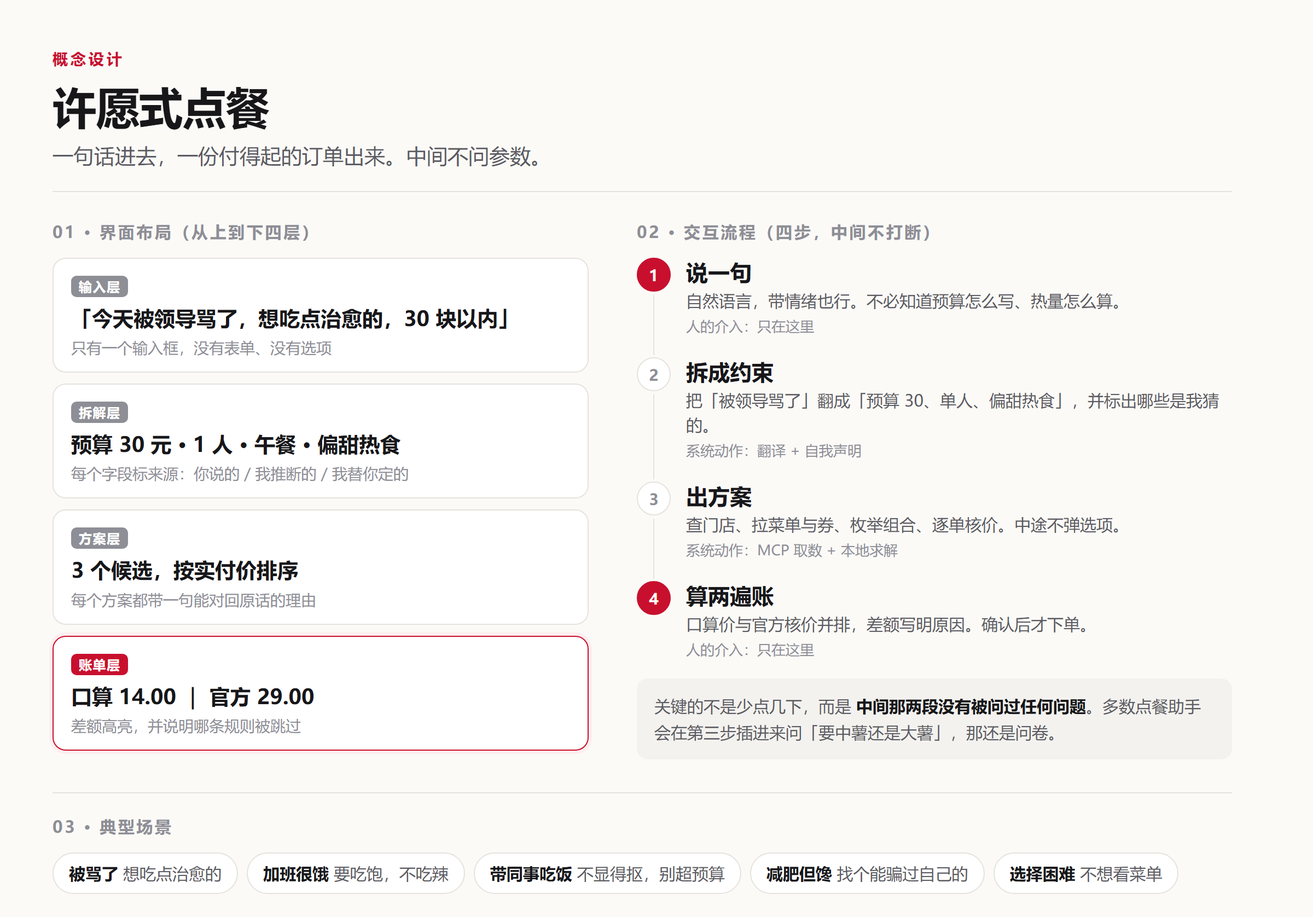
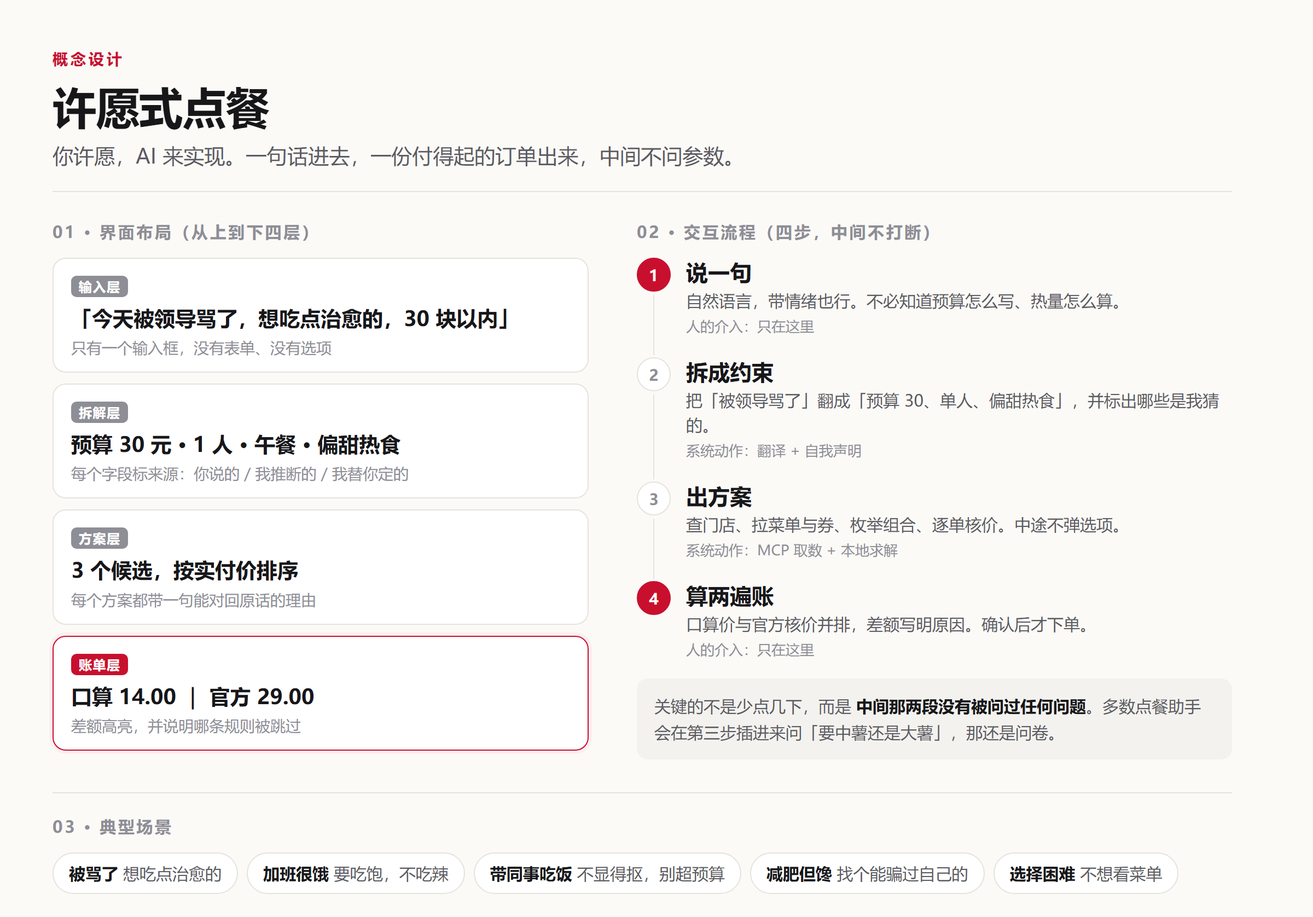
docs: 核心理念改为「你许愿，AI 来实现」
原表述「AI 可以替你许愿，但不能替你算钱」偏技术对抗，与「许愿式」的直觉有距离。
改为正面的「你许愿，AI 来实现」，把算账的透明性作为实现的一部分而不是限制。

统一 5 处：README 核心命题与开头、概念设计三条理念、演示页标题与 thesis、
pricing.py 模块注释、workbuddy.md 命题；设计图副标题同步重渲染。

- README 标题下先给主命题，再给例子，避免同一句话重复三次
- 表格「核心命题」改为「差异化：每一单的账算两遍，差额公开」
- 演示页 h1 升为「你许愿，AI 来实现」，thesis 只讲账单透明，层级不再重复
- 技术约束措辞改为「理解交给模型，算账交给代码」，与主命题形成呼应

Changed region(s): [[0.0312, 0.1551, 0.5625, 0.1862]]

diff --git a/docs/index.html b/docs/index.html
@@ -26,7 +26,7 @@
   .wrap{max-width:760px;margin:0 auto;padding:40px 22px 72px}
   header{border-bottom:1px solid var(--line);padding-bottom:22px;margin-bottom:26px}
   .kicker{font-size:12px;letter-spacing:.14em;color:var(--red);font-weight:600;text-transform:uppercase}
-  h1{font-size:30px;line-height:1.28;margin:10px 0 8px;letter-spacing:-.01em}
+  h1{font-size:34px;line-height:1.24;margin:10px 0 8px;letter-spacing:-.01em}
   .sub{color:var(--ink2);font-size:15px;margin:0}
   .thesis{
     margin:22px 0 26px;padding:16px 18px;border-left:3px solid var(--red);
@@ -130,13 +130,12 @@
 <div class="wrap">
   <header>
     <div class="kicker">许愿式点餐</div>
-    <h1>你说一句愿望，它交一份付得起的订单</h1>
-    <p class="sub">不用选套餐、不用填预算表、不用在两张券之间做算术。</p>
+    <h1>你许愿，AI 来实现</h1>
+    <p class="sub">说一句就够，不用选套餐、不用填预算表、不用在两张券之间做算术。</p>
   </header>
 
   <div class="thesis">
-    AI 可以替你许愿，但<b>不能替你算钱</b>。<br>
-    所以每一单的账都算两遍：一遍是模型式的口算，一遍是官方核价。
+    钱怎么算的也不藏：每一单算两遍，一遍是模型式的口算，一遍是官方核价。差额直接摆出来。
   </div>
 
   <div class="switcher" id="switcher"></div>
@@ -180,7 +179,7 @@
 </div>
 
 <script>
-const DATA = {"cases": [{"wish": {"raw": "今天被领导骂了一顿，想吃点能治愈的，别超过30块", "budget": 30.0, "people": 1, "meal_slot": "lunch", "moods": ["治愈"], "taste": ["sweet", "warm", "comfort"], "avoid": [], "source": {"budget": "explicit", "people": "default", "meal_slot": "inferred"}, "notes": []}, "candidates": [{"name": "麦香鸡 + 派", "items": ["麦香鸡", "派"], "codes": ["1450", "9900008752"], "unit_count": 1, "score": 7.03, "reasons": ["命中偏好：sweet"], "price": {"naive": {"label": "AI 式口算", "subtotal": 29.0, "delivery_fee": 0.0, "discount": 15.0, "payable": 14.0, "applied": ["满 70 减 15"], "rejected": [], "notes": ["选了面额最大的「满 70 减 15」，但这单只有 29.00 元，差 41.00 元没到门槛", "另外 4 张券没有参与比较（互斥规则被跳过）"]}, "official": {"label": "官方口径", "subtotal": 29.0, "delivery_fee": 0.0, "discount": 0.0, "payable": 29.0, "applied": [], "rejected": ["满 30 减 6：未达门槛 30 元（当前 29.00 元）", "满 50 减 12：未达门槛 50 元（当前 29.00 元）", "满 70 减 15：未达门槛 70 元（当前 29.00 元）", "小食第二份半价：需同类别两件（小食），当前只有 1 件", "早餐满 15 减 5：仅早餐时段可用，当前是午餐", "甜品第二份 1 元：需同类别两件（甜品），当前只有 0 件", "满 40 减 8（外送专享）：仅外送可用，当前是到店"], "notes": []}, "unit_price": {"naive": 14.0, "official": 29.0}, "units": 1, "gap": 15.0, "gap_pct": 51.7, "verdict": "口算低估了实付金额"}, "payable": 29.0}, {"name": "麦香鸡 + 雪碧", "items": ["麦香鸡", "雪碧"], "codes": ["1450", "3060"], "unit_count": 1, "score": 4.77, "reasons": [], "price": {"naive": {"label": "AI 式口算", "subtotal": 31.0, "delivery_fee": 0.0, "discount": 15.0, "payable": 16.0, "applied": ["满 70 减 15"], "rejected": [], "notes": ["选了面额最大的「满 70 减 15」，但这单只有 31.00 元，差 39.00 元没到门槛", "另外 4 张券没有参与比较（互斥规则被跳过）"]}, "official": {"label": "官方口径", "subtotal": 31.0, "delivery_fee": 0.0, "discount": 6.0, "payable": 25.0, "applied": ["满 30 减 6"], "rejected": ["满 50 减 12：未达门槛 50 元（当前 31.00 元）", "满 70 减 15：未达门槛 70 元（当前 31.00 元）", "小食第二份半价：需同类别两件（小食），当前只有 0 件", "早餐满 15 减 5：仅早餐时段可用，当前是午餐", "甜品第二份 1 元：需同类别两件（甜品），当前只有 0 件", "满 40 减 8（外送专享）：仅外送可用，当前是到店"], "notes": ["按互斥规则只用一张：满 30 减 6（整单金额需达到 30 元）"]}, "unit_price": {"naive": 16.0, "official": 25.0}, "units": 1, "gap": 9.0, "gap_pct": 36.0, "verdict": "口算低估了实付金额"}, "payable": 25.0}, {"name": "麦香鸡 + 阳光柠檬红茶", "items": ["麦香鸡", "阳光柠檬红茶"], "codes": ["1450", "515281"], "unit_count": 1, "score": 4.77, "reasons": [], "price": {"naive": {"label": "AI 式口算", "subtotal": 31.0, "delivery_fee": 0.0, "discount": 15.0, "payable": 16.0, "applied": ["满 70 减 15"], "rejected": [], "notes": ["选了面额最大的「满 70 减 15」，但这单只有 31.00 元，差 39.00 元没到门槛", "另外 4 张券没有参与比较（互斥规则被跳过）"]}, "official": {"label": "官方口径", "subtotal": 31.0, "delivery_fee": 0.0, "discount": 6.0, "payable": 25.0, "applied": ["满 30 减 6"], "rejected": ["满 50 减 12：未达门槛 50 元（当前 31.00 元）", "满 70 减 15：未达门槛 70 元（当前 31.00 元）", "小食第二份半价：需同类别两件（小食），当前只有 0 件", "早餐满 15 减 5：仅早餐时段可用，当前是午餐", "甜品第二份 1 元：需同类别两件（甜品），当前只有 0 件", "满 40 减 8（外送专享）：仅外送可用，当前是到店"], "notes": ["按互斥规则只用一张：满 30 减 6（整单金额需达到 30 元）"]}, "unit_price": {"naive": 16.0, "official": 25.0}, "units": 1, "gap": 9.0, "gap_pct": 36.0, "verdict": "口算低估了实付金额"}, "payable": 25.0}]}, {"wish": {"raw": "明天要带三个同事吃饭，我不想显得抠，也不想超预算", "budget": 220.0, "people": 4, "meal_slot": "lunch", "moods": ["抠", "同事"], "taste": ["share", "variety", "large"], "avoid": [], "source": {"people": "explicit", "meal_slot": "inferred", "budget": "default"}, "notes": ["你说带 三 个，按「你 + 他们」共 4 人算", "「不想显得抠」按「要体面、份量要够」理解", "你没说什么时候吃，按当前时间推的", "你没给金额，按每人 55 元 × 4 人 = 220 元先定，可以改"]}, "candidates": [{"name": "巨无霸 + 派 + 【美汁源】“多汁柠柠” × 4 人", "items": ["巨无霸", "派", "【美汁源】“多汁柠柠”"], "codes": ["1100", "9900008752", "521817"], "unit_count": 4, "score": 11.21, "reasons": ["品类齐（小食、汉堡、饮料），桌上不单调"], "price": {"naive": {"label": "AI 式口算", "subtotal": 208.0, "delivery_fee": 0.0, "discount": 15.0, "payable": 193.0, "applied": ["满 70 减 15"], "rejected": [], "notes": ["另外 4 张券没有参与比较（互斥规则被跳过）"]}, "official": {"label": "官方口径", "subtotal": 208.0, "delivery_fee": 0.0, "discount": 15.0, "payable": 193.0, "applied": ["满 70 减 15"], "rejected": ["早餐满 15 减 5：仅早餐时段可用，当前是午餐", "甜品第二份 1 元：需同类别两件（甜品），当前只有 0 件", "满 40 减 8（外送专享）：仅外送可用，当前是到店"], "notes": ["按互斥规则只用一张：满 70 减 15（多人场景常见档位）"]}, "unit_price": {"naive": 48.25, "official": 48.25}, "units": 4, "gap": 0.0, "gap_pct": 0.0, "verdict": "两种算法一致"}, "payable": 193.0}, {"name": "龙焰鸡腿堡 + 派 + 【美汁源】“黄金橙橙” × 4 人", "items": ["龙焰鸡腿堡", "派", "【美汁源】“黄金橙橙”"], "codes": ["521952", "9900008752", "2430"], "unit_count": 4, "score": 11.21, "reasons": ["品类齐（小食、汉堡、饮料），桌上不单调"], "price": {"naive": {"label": "AI 式口算", "subtotal": 208.0, "delivery_fee": 0.0, "discount": 15.0, "payable": 193.0, "applied": ["满 70 减 15"], "rejected": [], "notes": ["另外 4 张券没有参与比较（互斥规则被跳过）"]}, "official": {"label": "官方口径", "subtotal": 208.0, "delivery_fee": 0.0, "discount": 15.0, "payable": 193.0, "applied": ["满 70 减 15"], "rejected": ["早餐满 15 减 5：仅早餐时段可用，当前是午餐", "甜品第二份 1 元：需同类别两件（甜品），当前只有 0 件", "满 40 减 8（外送专享）：仅外送可用，当前是到店"], "notes": ["按互斥规则只用一张：满 70 减 15（多人场景常见档位）"]}, "unit_price": {"naive": 48.25, "official": 48.25}, "units": 4, "gap": 0.0, "gap_pct": 0.0, "verdict": "两种算法一致"}, "payable": 193.0}, {"name": "麦辣鸡腿汉堡 + 薯条 + 雪碧 × 4 人", "items": ["麦辣鸡腿汉堡", "薯条", "雪碧"], "codes": ["1440", "4810", "3060"], "unit_count": 4, "score": 11.21, "reasons": ["品类齐（小食、汉堡、饮料），桌上不单调"], "price": {"naive": {"label": "AI 式口算", "subtotal": 208.0, "delivery_fee": 0.0, "discount": 15.0, "payable": 193.0, "applied": ["满 70 减 15"], "rejected": [], "notes": ["另外 4 张券没有参与比较（互斥规则被跳过）"]}, "official": {"label": "官方口径", "subtotal": 208.0, "delivery_fee": 0.0, "discount": 15.0, "payable": 193.0, "applied": ["满 70 减 15"], "rejected": ["早餐满 15 减 5：仅早餐时段可用，当前是午餐", "甜品第二份 1 元：需同类别两件（甜品），当前只有 0 件", "满 40 减 8（外送专享）：仅外送可用，当前是到店"], "notes": ["按互斥规则只用一张：满 70 减 15（多人场景常见档位）"]}, "unit_price": {"naive": 48.25, "official": 48.25}, "units": 4, "gap": 0.0, "gap_pct": 0.0, "verdict": "两种算法一致"}, "payable": 193.0}]}, {"wish": {"raw": "减肥第三周，馋得不行，给我找个能骗过自己的", "budget": 55.0, "people": 1, "meal_slot": "lunch", "moods": ["减肥"], "taste": ["light", "lowcal"], "avoid": [], "source": {"people": "default", "meal_slot": "inferred", "budget": "default"}, "notes": ["你没说什么时候吃，按当前时间推的", "你没给金额，按每人 55 元 × 1 人 = 55 元先定，可以改"]}, "candidates": [{"name": "不素之霸双层牛堡 + 燕麦奶铁", "items": ["不素之霸双层牛堡", "燕麦奶铁"], "codes": ["4648", "510479"], "unit_count": 1, "score": 13.53, "reasons": ["命中偏好：light、lowcal", "带了低卡项"], "price": {"naive": {"label": "AI 式口算", "subtotal": 56.5, "delivery_fee": 0.0, "discount": 15.0, "payable": 41.5, "applied": ["满 70 减 15"], "rejected": [], "notes": ["选了面额最大的「满 70 减 15」，但这单只有 56.50 元，差 13.50 元没到门槛", "另外 4 张券没有参与比较（互斥规则被跳过）"]}, "official": {"label": "官方口径", "subtotal": 56.5, "delivery_fee": 0.0, "discount": 12.0, "payable": 44.5, "applied": ["满 50 减 12"], "rejected": ["满 70 减 15：未达门槛 70 元（当前 56.50 元）", "小食第二份半价：需同类别两件（小食），当前只有 0 件", "早餐满 15 减 5：仅早餐时段可用，当前是午餐", "甜品第二份 1 元：需同类别两件（甜品），当前只有 0 件", "满 40 减 8（外送专享）：仅外送可用，当前是到店"], "notes": ["按互斥规则只用一张：满 50 减 12（整单金额需达到 50 元）"]}, "unit_price": {"naive": 41.5, "official": 44.5}, "units": 1, "gap": 3.0, "gap_pct": 6.7, "verdict": "口算低估了实付金额"}, "payable": 44.5}, {"name": "巨无霸 + 燕麦奶铁", "items": ["巨无霸", "燕麦奶铁"], "codes": ["1100", "510479"], "unit_count": 1, "score": 13.44, "reasons": ["命中偏好：light、lowcal", "带了低卡项"], "price": {"naive": {"label": "AI 式口算", "subtotal": 56.0, "delivery_fee": 0.0, "discount": 15.0, "payable": 41.0, "applied": ["满 70 减 15"], "rejected": [], "notes": ["选了面额最大的「满 70 减 15」，但这单只有 56.00 元，差 14.00 元没到门槛", "另外 4 张券没有参与比较（互斥规则被跳过）"]}, "official": {"label": "官方口径", "subtotal": 56.0, "delivery_fee": 0.0, "discount": 12.0, "payable": 44.0, "applied": ["满 50 减 12"], "rejected": ["满 70 减 15：未达门槛 70 元（当前 56.00 元）", "小食第二份半价：需同类别两件（小食），当前只有 0 件", "早餐满 15 减 5：仅早餐时段可用，当前是午餐", "甜品第二份 1 元：需同类别两件（甜品），当前只有 0 件", "满 40 减 8（外送专享）：仅外送可用，当前是到店"], "notes": ["按互斥规则只用一张：满 50 减 12（整单金额需达到 50 元）"]}, "unit_price": {"naive": 41.0, "official": 44.0}, "units": 1, "gap": 3.0, "gap_pct": 6.8, "verdict": "口算低估了实付金额"}, "payable": 44.0}, {"name": "双层吉士汉堡 + 麦咖啡™美式", "items": ["双层吉士汉堡", "麦咖啡™美式"], "codes": ["1120", "507411"], "unit_count": 1, "score": 13.35, "reasons": ["命中偏好：light、lowcal", "带了低卡项"], "price": {"naive": {"label": "AI 式口算", "subtotal": 49.5, "delivery_fee": 0.0, "discount": 15.0, "payable": 34.5, "applied": ["满 70 减 15"], "rejected": [], "notes": ["选了面额最大的「满 70 减 15」，但这单只有 49.50 元，差 20.50 元没到门槛", "另外 4 张券没有参与比较（互斥规则被跳过）"]}, "official": {"label": "官方口径", "subtotal": 49.5, "delivery_fee": 0.0, "discount": 6.0, "payable": 43.5, "applied": ["满 30 减 6"], "rejected": ["满 50 减 12：未达门槛 50 元（当前 49.50 元）", "满 70 减 15：未达门槛 70 元（当前 49.50 元）", "小食第二份半价：需同类别两件（小食），当前只有 0 件", "早餐满 15 减 5：仅早餐时段可用，当前是午餐", "甜品第二份 1 元：需同类别两件（甜品），当前只有 0 件", "满 40 减 8（外送专享）：仅外送可用，当前是到店"], "notes": ["按互斥规则只用一张：满 30 减 6（整单金额需达到 30 元）"]}, "unit_price": {"naive": 34.5, "official": 43.5}, "units": 1, "gap": 9.0, "gap_pct": 20.7, "verdict": "口算低估了实付金额"}, "payable": 43.5}]}, {"wish": {"raw": "加班到现在，很饿，想吃饱一点，不吃辣", "budget": 55.0, "people": 1, "meal_slot": "lunch", "moods": ["加班", "很饿", "饱"], "taste": ["filling", "staple", "large"], "avoid": ["spicy"], "source": {"people": "default", "meal_slot": "inferred", "budget": "default"}, "notes": ["你没说什么时候吃，按当前时间推的", "你没给金额，按每人 55 元 × 1 人 = 55 元先定，可以改"]}, "candidates": [{"name": "不素之霸双层牛堡 + 麦麦脆汁鸡1块 + 【美汁源】“黄金橙橙”", "items": ["不素之霸双层牛堡", "麦麦脆汁鸡1块", "【美汁源】“黄金橙橙”"], "codes": ["4648", "9900005432", "2430"], "unit_count": 1, "score": 8.21, "reasons": ["命中偏好：staple"], "price": {"naive": {"label": "AI 式口算", "subtotal": 60.5, "delivery_fee": 0.0, "discount": 15.0, "payable": 45.5, "applied": ["满 70 减 15"], "rejected": [], "notes": ["选了面额最大的「满 70 减 15」，但这单只有 60.50 元，差 9.50 元没到门槛", "另外 4 张券没有参与比较（互斥规则被跳过）"]}, "official": {"label": "官方口径", "subtotal": 60.5, "delivery_fee": 0.0, "discount": 12.0, "payable": 48.5, "applied": ["满 50 减 12"], "rejected": ["满 70 减 15：未达门槛 70 元（当前 60.50 元）", "小食第二份半价：需同类别两件（小食），当前只有 1 件", "早餐满 15 减 5：仅早餐时段可用，当前是午餐", "甜品第二份 1 元：需同类别两件（甜品），当前只有 0 件", "满 40 减 8（外送专享）：仅外送可用，当前是到店"], "notes": ["按互斥规则只用一张：满 50 减 12（整单金额需达到 50 元）"]}, "unit_price": {"naive": 45.5, "official": 48.5}, "units": 1, "gap": 3.0, "gap_pct": 6.2, "verdict": "口算低估了实付金额"}, "payable": 48.5}, {"name": "双层深海鳕鱼堡 + 派 + 牛奶", "items": ["双层深海鳕鱼堡", "派", "牛奶"], "codes": ["9900003586", "9900008752", "507394"], "unit_count": 1, "score": 8.21, "reasons": ["命中偏好：staple"], "price": {"naive": {"label": "AI 式口算", "subtotal": 60.5, "delivery_fee": 0.0, "discount": 15.0, "payable": 45.5, "applied": ["满 70 减 15"], "rejected": [], "notes": ["选了面额最大的「满 70 减 15」，但这单只有 60.50 元，差 9.50 元没到门槛", "另外 4 张券没有参与比较（互斥规则被跳过）"]}, "official": {"label": "官方口径", "subtotal": 60.5, "delivery_fee": 0.0, "discount": 12.0, "payable": 48.5, "applied": ["满 50 减 12"], "rejected": ["满 70 减 15：未达门槛 70 元（当前 60.50 元）", "小食第二份半价：需同类别两件（小食），当前只有 1 件", "早餐满 15 减 5：仅早餐时段可用，当前是午餐", "甜品第二份 1 元：需同类别两件（甜品），当前只有 0 件", "满 40 减 8（外送专享）：仅外送可用，当前是到店"], "notes": ["按互斥规则只用一张：满 50 减 12（整单金额需达到 50 元）"]}, "unit_price": {"naive": 45.5, "official": 48.5}, "units": 1, "gap": 3.0, "gap_pct": 6.2, "verdict": "口算低估了实付金额"}, "payable": 48.5}, {"name": "双层深海鳕鱼堡 + 派 + 麦咖啡™美式", "items": ["双层深海鳕鱼堡", "派", "麦咖啡™美式"], "codes": ["9900003586", "9900008752", "507411"], "unit_count": 1, "score": 8.21, "reasons": ["命中偏好：staple"], "price": {"naive": {"label": "AI 式口算", "subtotal": 60.5, "delivery_fee": 0.0, "discount": 15.0, "payable": 45.5, "applied": ["满 70 减 15"], "rejected": [], "notes": ["选了面额最大的「满 70 减 15」，但这单只有 60.50 元，差 9.50 元没到门槛", "另外 4 张券没有参与比较（互斥规则被跳过）"]}, "official": {"label": "官方口径", "subtotal": 60.5, "delivery_fee": 0.0, "discount": 12.0, "payable": 48.5, "applied": ["满 50 减 12"], "rejected": ["满 70 减 15：未达门槛 70 元（当前 60.50 元）", "小食第二份半价：需同类别两件（小食），当前只有 1 件", "早餐满 15 减 5：仅早餐时段可用，当前是午餐", "甜品第二份 1 元：需同类别两件（甜品），当前只有 0 件", "满 40 减 8（外送专享）：仅外送可用，当前是到店"], "notes": ["按互斥规则只用一张：满 50 减 12（整单金额需达到 50 元）"]}, "unit_price": {"naive": 45.5, "official": 48.5}, "units": 1, "gap": 3.0, "gap_pct": 6.2, "verdict": "口算低估了实付金额"}, "payable": 48.5}]}], "source_note": "菜单与价格来自麦当劳 MCP 的 query-meals 真实返回（2026-10-21 11:02 抓取，门店 麦当劳北京西客站南候车室餐厅）；券为示例数据，因测试账号券包为空。价格以麦当劳官方渠道实时结果为准。", "generated_at": "2026-10-21 13:38"};
+const DATA = {"cases": [{"wish": {"raw": "今天被领导骂了一顿，想吃点能治愈的，别超过30块", "budget": 30.0, "people": 1, "meal_slot": "lunch", "moods": ["治愈"], "taste": ["sweet", "warm", "comfort"], "avoid": [], "source": {"budget": "explicit", "people": "default", "meal_slot": "inferred"}, "notes": []}, "candidates": [{"name": "麦香鸡 + 派", "items": ["麦香鸡", "派"], "codes": ["1450", "9900008752"], "unit_count": 1, "score": 7.03, "reasons": ["命中偏好：sweet"], "price": {"naive": {"label": "AI 式口算", "subtotal": 29.0, "delivery_fee": 0.0, "discount": 15.0, "payable": 14.0, "applied": ["满 70 减 15"], "rejected": [], "notes": ["选了面额最大的「满 70 减 15」，但这单只有 29.00 元，差 41.00 元没到门槛", "另外 4 张券没有参与比较（互斥规则被跳过）"]}, "official": {"label": "官方口径", "subtotal": 29.0, "delivery_fee": 0.0, "discount": 0.0, "payable": 29.0, "applied": [], "rejected": ["满 30 减 6：未达门槛 30 元（当前 29.00 元）", "满 50 减 12：未达门槛 50 元（当前 29.00 元）", "满 70 减 15：未达门槛 70 元（当前 29.00 元）", "小食第二份半价：需同类别两件（小食），当前只有 1 件", "早餐满 15 减 5：仅早餐时段可用，当前是午餐", "甜品第二份 1 元：需同类别两件（甜品），当前只有 0 件", "满 40 减 8（外送专享）：仅外送可用，当前是到店"], "notes": []}, "unit_price": {"naive": 14.0, "official": 29.0}, "units": 1, "gap": 15.0, "gap_pct": 51.7, "verdict": "口算低估了实付金额"}, "payable": 29.0}, {"name": "麦香鸡 + 雪碧", "items": ["麦香鸡", "雪碧"], "codes": ["1450", "3060"], "unit_count": 1, "score": 4.77, "reasons": [], "price": {"naive": {"label": "AI 式口算", "subtotal": 31.0, "delivery_fee": 0.0, "discount": 15.0, "payable": 16.0, "applied": ["满 70 减 15"], "rejected": [], "notes": ["选了面额最大的「满 70 减 15」，但这单只有 31.00 元，差 39.00 元没到门槛", "另外 4 张券没有参与比较（互斥规则被跳过）"]}, "official": {"label": "官方口径", "subtotal": 31.0, "delivery_fee": 0.0, "discount": 6.0, "payable": 25.0, "applied": ["满 30 减 6"], "rejected": ["满 50 减 12：未达门槛 50 元（当前 31.00 元）", "满 70 减 15：未达门槛 70 元（当前 31.00 元）", "小食第二份半价：需同类别两件（小食），当前只有 0 件", "早餐满 15 减 5：仅早餐时段可用，当前是午餐", "甜品第二份 1 元：需同类别两件（甜品），当前只有 0 件", "满 40 减 8（外送专享）：仅外送可用，当前是到店"], "notes": ["按互斥规则只用一张：满 30 减 6（整单金额需达到 30 元）"]}, "unit_price": {"naive": 16.0, "official": 25.0}, "units": 1, "gap": 9.0, "gap_pct": 36.0, "verdict": "口算低估了实付金额"}, "payable": 25.0}, {"name": "麦香鸡 + 阳光柠檬红茶", "items": ["麦香鸡", "阳光柠檬红茶"], "codes": ["1450", "515281"], "unit_count": 1, "score": 4.77, "reasons": [], "price": {"naive": {"label": "AI 式口算", "subtotal": 31.0, "delivery_fee": 0.0, "discount": 15.0, "payable": 16.0, "applied": ["满 70 减 15"], "rejected": [], "notes": ["选了面额最大的「满 70 减 15」，但这单只有 31.00 元，差 39.00 元没到门槛", "另外 4 张券没有参与比较（互斥规则被跳过）"]}, "official": {"label": "官方口径", "subtotal": 31.0, "delivery_fee": 0.0, "discount": 6.0, "payable": 25.0, "applied": ["满 30 减 6"], "rejected": ["满 50 减 12：未达门槛 50 元（当前 31.00 元）", "满 70 减 15：未达门槛 70 元（当前 31.00 元）", "小食第二份半价：需同类别两件（小食），当前只有 0 件", "早餐满 15 减 5：仅早餐时段可用，当前是午餐", "甜品第二份 1 元：需同类别两件（甜品），当前只有 0 件", "满 40 减 8（外送专享）：仅外送可用，当前是到店"], "notes": ["按互斥规则只用一张：满 30 减 6（整单金额需达到 30 元）"]}, "unit_price": {"naive": 16.0, "official": 25.0}, "units": 1, "gap": 9.0, "gap_pct": 36.0, "verdict": "口算低估了实付金额"}, "payable": 25.0}]}, {"wish": {"raw": "明天要带三个同事吃饭，我不想显得抠，也不想超预算", "budget": 220.0, "people": 4, "meal_slot": "lunch", "moods": ["抠", "同事"], "taste": ["share", "variety", "large"], "avoid": [], "source": {"people": "explicit", "meal_slot": "inferred", "budget": "default"}, "notes": ["你说带 三 个，按「你 + 他们」共 4 人算", "「不想显得抠」按「要体面、份量要够」理解", "你没说什么时候吃，按当前时间推的", "你没给金额，按每人 55 元 × 4 人 = 220 元先定，可以改"]}, "candidates": [{"name": "巨无霸 + 派 + 【美汁源】“多汁柠柠” × 4 人", "items": ["巨无霸", "派", "【美汁源】“多汁柠柠”"], "codes": ["1100", "9900008752", "521817"], "unit_count": 4, "score": 11.21, "reasons": ["品类齐（小食、汉堡、饮料），桌上不单调"], "price": {"naive": {"label": "AI 式口算", "subtotal": 208.0, "delivery_fee": 0.0, "discount": 15.0, "payable": 193.0, "applied": ["满 70 减 15"], "rejected": [], "notes": ["另外 4 张券没有参与比较（互斥规则被跳过）"]}, "official": {"label": "官方口径", "subtotal": 208.0, "delivery_fee": 0.0, "discount": 15.0, "payable": 193.0, "applied": ["满 70 减 15"], "rejected": ["早餐满 15 减 5：仅早餐时段可用，当前是午餐", "甜品第二份 1 元：需同类别两件（甜品），当前只有 0 件", "满 40 减 8（外送专享）：仅外送可用，当前是到店"], "notes": ["按互斥规则只用一张：满 70 减 15（多人场景常见档位）"]}, "unit_price": {"naive": 48.25, "official": 48.25}, "units": 4, "gap": 0.0, "gap_pct": 0.0, "verdict": "两种算法一致"}, "payable": 193.0}, {"name": "龙焰鸡腿堡 + 派 + 【美汁源】“黄金橙橙” × 4 人", "items": ["龙焰鸡腿堡", "派", "【美汁源】“黄金橙橙”"], "codes": ["521952", "9900008752", "2430"], "unit_count": 4, "score": 11.21, "reasons": ["品类齐（小食、汉堡、饮料），桌上不单调"], "price": {"naive": {"label": "AI 式口算", "subtotal": 208.0, "delivery_fee": 0.0, "discount": 15.0, "payable": 193.0, "applied": ["满 70 减 15"], "rejected": [], "notes": ["另外 4 张券没有参与比较（互斥规则被跳过）"]}, "official": {"label": "官方口径", "subtotal": 208.0, "delivery_fee": 0.0, "discount": 15.0, "payable": 193.0, "applied": ["满 70 减 15"], "rejected": ["早餐满 15 减 5：仅早餐时段可用，当前是午餐", "甜品第二份 1 元：需同类别两件（甜品），当前只有 0 件", "满 40 减 8（外送专享）：仅外送可用，当前是到店"], "notes": ["按互斥规则只用一张：满 70 减 15（多人场景常见档位）"]}, "unit_price": {"naive": 48.25, "official": 48.25}, "units": 4, "gap": 0.0, "gap_pct": 0.0, "verdict": "两种算法一致"}, "payable": 193.0}, {"name": "麦辣鸡腿汉堡 + 薯条 + 雪碧 × 4 人", "items": ["麦辣鸡腿汉堡", "薯条", "雪碧"], "codes": ["1440", "4810", "3060"], "unit_count": 4, "score": 11.21, "reasons": ["品类齐（小食、汉堡、饮料），桌上不单调"], "price": {"naive": {"label": "AI 式口算", "subtotal": 208.0, "delivery_fee": 0.0, "discount": 15.0, "payable": 193.0, "applied": ["满 70 减 15"], "rejected": [], "notes": ["另外 4 张券没有参与比较（互斥规则被跳过）"]}, "official": {"label": "官方口径", "subtotal": 208.0, "delivery_fee": 0.0, "discount": 15.0, "payable": 193.0, "applied": ["满 70 减 15"], "rejected": ["早餐满 15 减 5：仅早餐时段可用，当前是午餐", "甜品第二份 1 元：需同类别两件（甜品），当前只有 0 件", "满 40 减 8（外送专享）：仅外送可用，当前是到店"], "notes": ["按互斥规则只用一张：满 70 减 15（多人场景常见档位）"]}, "unit_price": {"naive": 48.25, "official": 48.25}, "units": 4, "gap": 0.0, "gap_pct": 0.0, "verdict": "两种算法一致"}, "payable": 193.0}]}, {"wish": {"raw": "减肥第三周，馋得不行，给我找个能骗过自己的", "budget": 55.0, "people": 1, "meal_slot": "lunch", "moods": ["减肥"], "taste": ["light", "lowcal"], "avoid": [], "source": {"people": "default", "meal_slot": "inferred", "budget": "default"}, "notes": ["你没说什么时候吃，按当前时间推的", "你没给金额，按每人 55 元 × 1 人 = 55 元先定，可以改"]}, "candidates": [{"name": "不素之霸双层牛堡 + 燕麦奶铁", "items": ["不素之霸双层牛堡", "燕麦奶铁"], "codes": ["4648", "510479"], "unit_count": 1, "score": 13.53, "reasons": ["命中偏好：light、lowcal", "带了低卡项"], "price": {"naive": {"label": "AI 式口算", "subtotal": 56.5, "delivery_fee": 0.0, "discount": 15.0, "payable": 41.5, "applied": ["满 70 减 15"], "rejected": [], "notes": ["选了面额最大的「满 70 减 15」，但这单只有 56.50 元，差 13.50 元没到门槛", "另外 4 张券没有参与比较（互斥规则被跳过）"]}, "official": {"label": "官方口径", "subtotal": 56.5, "delivery_fee": 0.0, "discount": 12.0, "payable": 44.5, "applied": ["满 50 减 12"], "rejected": ["满 70 减 15：未达门槛 70 元（当前 56.50 元）", "小食第二份半价：需同类别两件（小食），当前只有 0 件", "早餐满 15 减 5：仅早餐时段可用，当前是午餐", "甜品第二份 1 元：需同类别两件（甜品），当前只有 0 件", "满 40 减 8（外送专享）：仅外送可用，当前是到店"], "notes": ["按互斥规则只用一张：满 50 减 12（整单金额需达到 50 元）"]}, "unit_price": {"naive": 41.5, "official": 44.5}, "units": 1, "gap": 3.0, "gap_pct": 6.7, "verdict": "口算低估了实付金额"}, "payable": 44.5}, {"name": "巨无霸 + 燕麦奶铁", "items": ["巨无霸", "燕麦奶铁"], "codes": ["1100", "510479"], "unit_count": 1, "score": 13.44, "reasons": ["命中偏好：light、lowcal", "带了低卡项"], "price": {"naive": {"label": "AI 式口算", "subtotal": 56.0, "delivery_fee": 0.0, "discount": 15.0, "payable": 41.0, "applied": ["满 70 减 15"], "rejected": [], "notes": ["选了面额最大的「满 70 减 15」，但这单只有 56.00 元，差 14.00 元没到门槛", "另外 4 张券没有参与比较（互斥规则被跳过）"]}, "official": {"label": "官方口径", "subtotal": 56.0, "delivery_fee": 0.0, "discount": 12.0, "payable": 44.0, "applied": ["满 50 减 12"], "rejected": ["满 70 减 15：未达门槛 70 元（当前 56.00 元）", "小食第二份半价：需同类别两件（小食），当前只有 0 件", "早餐满 15 减 5：仅早餐时段可用，当前是午餐", "甜品第二份 1 元：需同类别两件（甜品），当前只有 0 件", "满 40 减 8（外送专享）：仅外送可用，当前是到店"], "notes": ["按互斥规则只用一张：满 50 减 12（整单金额需达到 50 元）"]}, "unit_price": {"naive": 41.0, "official": 44.0}, "units": 1, "gap": 3.0, "gap_pct": 6.8, "verdict": "口算低估了实付金额"}, "payable": 44.0}, {"name": "双层吉士汉堡 + 麦咖啡™美式", "items": ["双层吉士汉堡", "麦咖啡™美式"], "codes": ["1120", "507411"], "unit_count": 1, "score": 13.35, "reasons": ["命中偏好：light、lowcal", "带了低卡项"], "price": {"naive": {"label": "AI 式口算", "subtotal": 49.5, "delivery_fee": 0.0, "discount": 15.0, "payable": 34.5, "applied": ["满 70 减 15"], "rejected": [], "notes": ["选了面额最大的「满 70 减 15」，但这单只有 49.50 元，差 20.50 元没到门槛", "另外 4 张券没有参与比较（互斥规则被跳过）"]}, "official": {"label": "官方口径", "subtotal": 49.5, "delivery_fee": 0.0, "discount": 6.0, "payable": 43.5, "applied": ["满 30 减 6"], "rejected": ["满 50 减 12：未达门槛 50 元（当前 49.50 元）", "满 70 减 15：未达门槛 70 元（当前 49.50 元）", "小食第二份半价：需同类别两件（小食），当前只有 0 件", "早餐满 15 减 5：仅早餐时段可用，当前是午餐", "甜品第二份 1 元：需同类别两件（甜品），当前只有 0 件", "满 40 减 8（外送专享）：仅外送可用，当前是到店"], "notes": ["按互斥规则只用一张：满 30 减 6（整单金额需达到 30 元）"]}, "unit_price": {"naive": 34.5, "official": 43.5}, "units": 1, "gap": 9.0, "gap_pct": 20.7, "verdict": "口算低估了实付金额"}, "payable": 43.5}]}, {"wish": {"raw": "加班到现在，很饿，想吃饱一点，不吃辣", "budget": 55.0, "people": 1, "meal_slot": "lunch", "moods": ["加班", "很饿", "饱"], "taste": ["filling", "staple", "large"], "avoid": ["spicy"], "source": {"people": "default", "meal_slot": "inferred", "budget": "default"}, "notes": ["你没说什么时候吃，按当前时间推的", "你没给金额，按每人 55 元 × 1 人 = 55 元先定，可以改"]}, "candidates": [{"name": "不素之霸双层牛堡 + 麦麦脆汁鸡1块 + 【美汁源】“黄金橙橙”", "items": ["不素之霸双层牛堡", "麦麦脆汁鸡1块", "【美汁源】“黄金橙橙”"], "codes": ["4648", "9900005432", "2430"], "unit_count": 1, "score": 8.21, "reasons": ["命中偏好：staple"], "price": {"naive": {"label": "AI 式口算", "subtotal": 60.5, "delivery_fee": 0.0, "discount": 15.0, "payable": 45.5, "applied": ["满 70 减 15"], "rejected": [], "notes": ["选了面额最大的「满 70 减 15」，但这单只有 60.50 元，差 9.50 元没到门槛", "另外 4 张券没有参与比较（互斥规则被跳过）"]}, "official": {"label": "官方口径", "subtotal": 60.5, "delivery_fee": 0.0, "discount": 12.0, "payable": 48.5, "applied": ["满 50 减 12"], "rejected": ["满 70 减 15：未达门槛 70 元（当前 60.50 元）", "小食第二份半价：需同类别两件（小食），当前只有 1 件", "早餐满 15 减 5：仅早餐时段可用，当前是午餐", "甜品第二份 1 元：需同类别两件（甜品），当前只有 0 件", "满 40 减 8（外送专享）：仅外送可用，当前是到店"], "notes": ["按互斥规则只用一张：满 50 减 12（整单金额需达到 50 元）"]}, "unit_price": {"naive": 45.5, "official": 48.5}, "units": 1, "gap": 3.0, "gap_pct": 6.2, "verdict": "口算低估了实付金额"}, "payable": 48.5}, {"name": "双层深海鳕鱼堡 + 派 + 牛奶", "items": ["双层深海鳕鱼堡", "派", "牛奶"], "codes": ["9900003586", "9900008752", "507394"], "unit_count": 1, "score": 8.21, "reasons": ["命中偏好：staple"], "price": {"naive": {"label": "AI 式口算", "subtotal": 60.5, "delivery_fee": 0.0, "discount": 15.0, "payable": 45.5, "applied": ["满 70 减 15"], "rejected": [], "notes": ["选了面额最大的「满 70 减 15」，但这单只有 60.50 元，差 9.50 元没到门槛", "另外 4 张券没有参与比较（互斥规则被跳过）"]}, "official": {"label": "官方口径", "subtotal": 60.5, "delivery_fee": 0.0, "discount": 12.0, "payable": 48.5, "applied": ["满 50 减 12"], "rejected": ["满 70 减 15：未达门槛 70 元（当前 60.50 元）", "小食第二份半价：需同类别两件（小食），当前只有 1 件", "早餐满 15 减 5：仅早餐时段可用，当前是午餐", "甜品第二份 1 元：需同类别两件（甜品），当前只有 0 件", "满 40 减 8（外送专享）：仅外送可用，当前是到店"], "notes": ["按互斥规则只用一张：满 50 减 12（整单金额需达到 50 元）"]}, "unit_price": {"naive": 45.5, "official": 48.5}, "units": 1, "gap": 3.0, "gap_pct": 6.2, "verdict": "口算低估了实付金额"}, "payable": 48.5}, {"name": "双层深海鳕鱼堡 + 派 + 麦咖啡™美式", "items": ["双层深海鳕鱼堡", "派", "麦咖啡™美式"], "codes": ["9900003586", "9900008752", "507411"], "unit_count": 1, "score": 8.21, "reasons": ["命中偏好：staple"], "price": {"naive": {"label": "AI 式口算", "subtotal": 60.5, "delivery_fee": 0.0, "discount": 15.0, "payable": 45.5, "applied": ["满 70 减 15"], "rejected": [], "notes": ["选了面额最大的「满 70 减 15」，但这单只有 60.50 元，差 9.50 元没到门槛", "另外 4 张券没有参与比较（互斥规则被跳过）"]}, "official": {"label": "官方口径", "subtotal": 60.5, "delivery_fee": 0.0, "discount": 12.0, "payable": 48.5, "applied": ["满 50 减 12"], "rejected": ["满 70 减 15：未达门槛 70 元（当前 60.50 元）", "小食第二份半价：需同类别两件（小食），当前只有 1 件", "早餐满 15 减 5：仅早餐时段可用，当前是午餐", "甜品第二份 1 元：需同类别两件（甜品），当前只有 0 件", "满 40 减 8（外送专享）：仅外送可用，当前是到店"], "notes": ["按互斥规则只用一张：满 50 减 12（整单金额需达到 50 元）"]}, "unit_price": {"naive": 45.5, "official": 48.5}, "units": 1, "gap": 3.0, "gap_pct": 6.2, "verdict": "口算低估了实付金额"}, "payable": 48.5}]}], "source_note": "菜单与价格来自麦当劳 MCP 的 query-meals 真实返回（2026-10-21 11:02 抓取，门店 麦当劳北京西客站南候车室餐厅）；券为示例数据，因测试账号券包为空。价格以麦当劳官方渠道实时结果为准。", "generated_at": "2026-10-21 14:40"};
 const SLOT = {breakfast:"早餐", lunch:"午餐", dinner:"晚餐", latenight:"夜宵"};
 const SRC = {explicit:"你说的", inferred:"我推断的", default:"我替你定的"};
 let cur = 0, active = 0;

diff --git a/docs/concept-src.html b/docs/concept-src.html
@@ -77,7 +77,7 @@
   <header>
     <div class="kicker">概念设计</div>
     <h1>许愿式点餐</h1>
-    <p>一句话进去，一份付得起的订单出来。中间不问参数。</p>
+    <p>你许愿，AI 来实现。一句话进去，一份付得起的订单出来，中间不问参数。</p>
   </header>
 
   <div class="body">

diff --git a/scripts/report.py b/scripts/report.py
@@ -37,7 +37,7 @@ TEMPLATE = """<!DOCTYPE html>
   .wrap{max-width:760px;margin:0 auto;padding:40px 22px 72px}
   header{border-bottom:1px solid var(--line);padding-bottom:22px;margin-bottom:26px}
   .kicker{font-size:12px;letter-spacing:.14em;color:var(--red);font-weight:600;text-transform:uppercase}
-  h1{font-size:30px;line-height:1.28;margin:10px 0 8px;letter-spacing:-.01em}
+  h1{font-size:34px;line-height:1.24;margin:10px 0 8px;letter-spacing:-.01em}
   .sub{color:var(--ink2);font-size:15px;margin:0}
   .thesis{
     margin:22px 0 26px;padding:16px 18px;border-left:3px solid var(--red);
@@ -141,13 +141,12 @@ TEMPLATE = """<!DOCTYPE html>
 <div class="wrap">
   <header>
     <div class="kicker">许愿式点餐</div>
-    <h1>你说一句愿望，它交一份付得起的订单</h1>
-    <p class="sub">不用选套餐、不用填预算表、不用在两张券之间做算术。</p>
+    <h1>你许愿，AI 来实现</h1>
+    <p class="sub">说一句就够，不用选套餐、不用填预算表、不用在两张券之间做算术。</p>
   </header>
 
   <div class="thesis">
-    AI 可以替你许愿，但<b>不能替你算钱</b>。<br>
-    所以每一单的账都算两遍：一遍是模型式的口算，一遍是官方核价。
+    钱怎么算的也不藏：每一单算两遍，一遍是模型式的口算，一遍是官方核价。差额直接摆出来。
   </div>
 
   <div class="switcher" id="switcher"></div>

diff --git a/scripts/pricing.py b/scripts/pricing.py
@@ -13,7 +13,7 @@
 外送券到店不能用。这些规则都在券面上，但口算时最容易被跳过。
 
 本作品要证明的命题只有一句：
-    AI 可以替你许愿，但不能替你算钱。
+    许愿可以交给 AI，算账必须交给能被核对的地方。
 """
 
 from __future__ import annotations

diff --git a/README.md b/README.md
@@ -4,18 +4,19 @@
 
 # 许愿式点餐 · mcd-wish-order
 
-> 你说一句「今天被领导骂了，想吃点治愈的，别超过 30 块」，
-> 它自己拆需求、拉菜单、比券、核价，交一份付得起的订单。
-> 中间不问你参数。
+**你许愿，AI 来实现。**
 
-**每一单的账都算两遍：一遍是模型式的口算，一遍是官方核价。差额直接摆在明面上。**
+> 你说一句「今天被领导骂了，想吃点治愈的，别超过 30 块」，
+> 它自己拆需求、拉菜单、比券、核价，交一份付得起的订单。中间不问你参数。
+
+实现到哪一步、钱是怎么算的，都摊开在明面上：每一单的账算两遍，一遍是模型式的口算，一遍是官方核价，差额直接摆出来。
 
 | | |
 |---|---|
 | 输入 | 一句话，不填预算表、不选套餐、不做券的算术 |
 | 中间 | 不追问。缺的参数按常识补，补了什么明确告诉你 |
 | 输出 | 一份可下单的方案 + 两张账单 |
-| 核心命题 | **AI 可以替你许愿，但不能替你算钱** |
+| 差异化 | **每一单的账算两遍，差额公开** |
 
 演示页（本地双击打开，零依赖、不联网）：`docs/index.html`
 
@@ -77,17 +78,17 @@ AI 式口算           14.00 元   扣 15.00
 
 三条，按重要性排序：
 
-**一、只收愿望，不收参数。**
+**一、你许愿，AI 来实现。**
 
-用户不需要知道「预算怎么写、热量上限填多少、想吃什么品类」。这些是系统的活。把需求翻译成参数，是判断题；在参数上求最优解，是数学题。市面上多数工具让用户做完判断题再来做数学题，本作品只让用户说一句话。
+用户说的是「今天被领导骂了，想吃点治愈的」，不是「预算 30、单人、午餐、偏好甜食」。把处境翻译成条件，是系统的活；在条件上求最优解，也是系统的活。用户只负责一件事：说出愿望。这是「许愿式」三个字最直白的意思：你开口，剩下的有人办。
 
 **二、不追问，但承认自己在猜。**
 
 「许愿式」最容易做成假许愿：嘴上说不问你，实际在中间弹三个选项。本作品的做法是全部给默认值，但每个字段标注来源：你说的、我推断的、我替你定的。**猜了要写在脸上**，这是不追问的前提。
 
-**三、许愿可以，算账不行。**
+**三、实现要看得见，钱尤其。**
 
-AI 擅长把「我 emo 了」翻译成「预算 30、单人、偏甜热食」，不擅长在门槛、互斥、渠道、时段之间做正确减法。所以取数交给 MCP、算术交给确定性代码、表达交给 Agent。账单必须算两遍并列出差额。
+AI 擅长把「我 emo 了」翻译成「预算 30、单人、偏甜热食」，不擅长在门槛、互斥、渠道、时段之间做正确减法。所以取数交给 MCP、算术交给确定性代码、表达交给 Agent。用户看到的不是一句「大概 30 块」，而是两张并排的账单和它们的差额。
 
 ### 用户使用流程
 
@@ -249,7 +250,7 @@ python wish.py --demo
 | 算术 | 本地 Python（标准库） | 需要确定性、可复现、可核对 |
 | 表达 | WorkBuddy Agent（或离线规则兜底） | 把愿望翻译成约束、把结果讲成人话 |
 
-**不让模型算钱**是这套设计的核心约束。模型擅长把「我 emo 了」翻译成「预算 30、单人、偏甜」，不擅长在十几张券和门槛之间做正确减法。让它做前者，别让它碰后者。
+**理解交给模型，算账交给代码**，是这套设计的核心约束。模型擅长把「我 emo 了」翻译成「预算 30、单人、偏甜」，不擅长在十几张券和门槛之间做正确减法。让它做前者，别让它碰后者。
 
 ### 代码地图
 

diff --git a/workbuddy.md b/workbuddy.md
@@ -20,7 +20,7 @@
 
 开发没有从「做一个点餐助手」开始，而是从一句命题开始：
 
-> AI 可以替你许愿，但不能替你算钱。
+> 你许愿，AI 来实现。但「实现」里最不能糊弄的一步，是算钱。
 
 这句定下来之后，功能的取舍就有了判据：凡是加强「许愿」和「算钱对照」的做，凡是偏离这条主线的砍掉。
 
